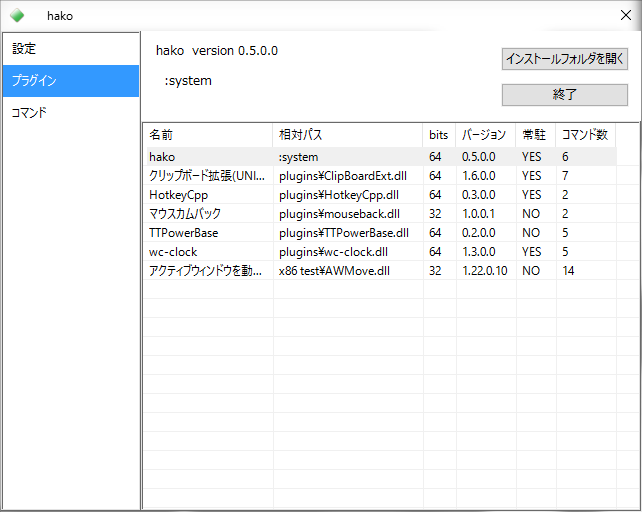
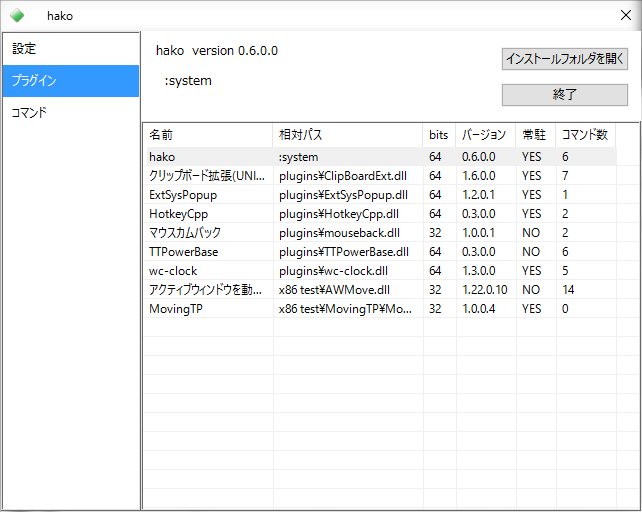
TTBaseHost: v0.6.0.0

diff --git a/TTBaseHost/ReadMe.md b/TTBaseHost/ReadMe.md
@@ -1,6 +1,6 @@
 #TTBaseHost
 
-TTBase 互換プログラムのサンプルです。  
+TTBase 互換アプリケーションです。  
 **Visual Studio Community 2015 (C++11, 32/64-bit)** でコンパイルを確認しています。
 
 ##内容
@@ -59,7 +59,7 @@ TTBase プラグインスケルトンプロジェクトから
 ##説明
 
 　[**TTBase**](https://osdn.jp/projects/ttbase/) の互換アプリケーションです。このサンプルプログラムは、U さんが作られた [**peach**](http://white2.php.xdomain.jp/?page_id=27) のソースコードを一部参考にして作られました。  
-　あくまで互換アプリケーションであるため、 TTBase と同じ動作にはなりません。実装されていない機能もあり、TTBase や peach の代替としてお使いになることは推奨いたしません。C++11による実装の一例としてご活用いただければと思います。  
+　あくまで互換アプリケーションであるため、 TTBase と同じ動作にはなりません。実装されていない機能もあり、TTBase や peach の代替としてお使いになれるとは限りません。C++11による実装の一例としてご活用いただければと思います。  
 　最大の特徴として、64ビット版の本体のみで **32ビット版と64ビット版 両方のプラグインを使用可能**なことが挙げられます。
 
 
@@ -80,9 +80,9 @@ TTBase プラグインスケルトンプロジェクトから
 - 64ビット版の本体から 32ビット版のプラグインを読み込んで実行
 
 ###未実装の機能
-- 本体によるホットキー機能の提供
+- ~~本体によるホットキー機能の提供~~　[HotkeyCpp](https://github.com/tapetums/HotkeyCpp/releases) にて実現
 - 本体によるタイマー機能
-- 本体によるフックの提供
+- ~~本体によるフックの提供~~　**Hook.dll** を同梱
 - コマンドラインオプション
 
 　コンセプトは peach を参考にしており、 TTBase では本体の機能として提供していたものであっても、プラグイン側に任せる、という姿勢をとっています。  

diff --git a/TTBaseHost/ReadMe.English.md b/TTBaseHost/ReadMe.English.md
@@ -1,6 +1,6 @@
 #TTBaseHost
 
-A sample for TTBase compatible application.  
+An application that is compatible with TTBase.  
 Compilable with: **Visual Studio Community 2015 (C++11, 32/64-bit)**
 
 ##Contents
@@ -57,13 +57,13 @@ from the 'TTBase plugin template project'.
 
 ##Description
 
-　This is an application compatible with [**TTBase**](https://osdn.jp/projects/ttbase/). This sample is written partially based on the source code of [**peach**](http://white2.php.xdomain.jp/?page_id=27) which is produced by U.  
-　This is nothing but a compatible application, so it does not function the same as TTBase. I don't recommend you to use this as an alternative for TTBase or peach because some functions are not implemented yet. I hope you could find something from this sample as an implementation in C++11.  
+　This is an application compatible with [**TTBase**](https://osdn.jp/projects/ttbase/). The source code is written partially based on [**peach**](http://white2.php.xdomain.jp/?page_id=27) which is produced by U.  
+　This is nothing but a compatible application, so it does not function the same as TTBase. I don't guarantee it as an alternative for TTBase or peach because some functions are not implemented. I hope you could find something from this sample as an implementation in C++11.  
 　The biggest feature of this program is that **you can use both 32/64-bit plugins with one 64-bit host application**.
 
 ---
 
-##Functions
+##Features
 
 ###Implemented
 - Loading plugins
@@ -77,9 +77,9 @@ from the 'TTBase plugin template project'.
 - Loading and executing 32/64-bit plugins with one 64-bit host application
 
 ###Not Implemented
-- Hotkey function
+- ~~Hotkey function~~ [HotkeyCpp](https://github.com/tapetums/HotkeyCpp/releases) is now available
 - Timer function
-- Windows Hook
+- ~~Windows Hook~~ **Hook.dll** is included in the package
 - Command line options
 
 　The concept is baed on _peach_. This program does not provide some functions that TTBase does as the host services, and let them go with plugins.  
